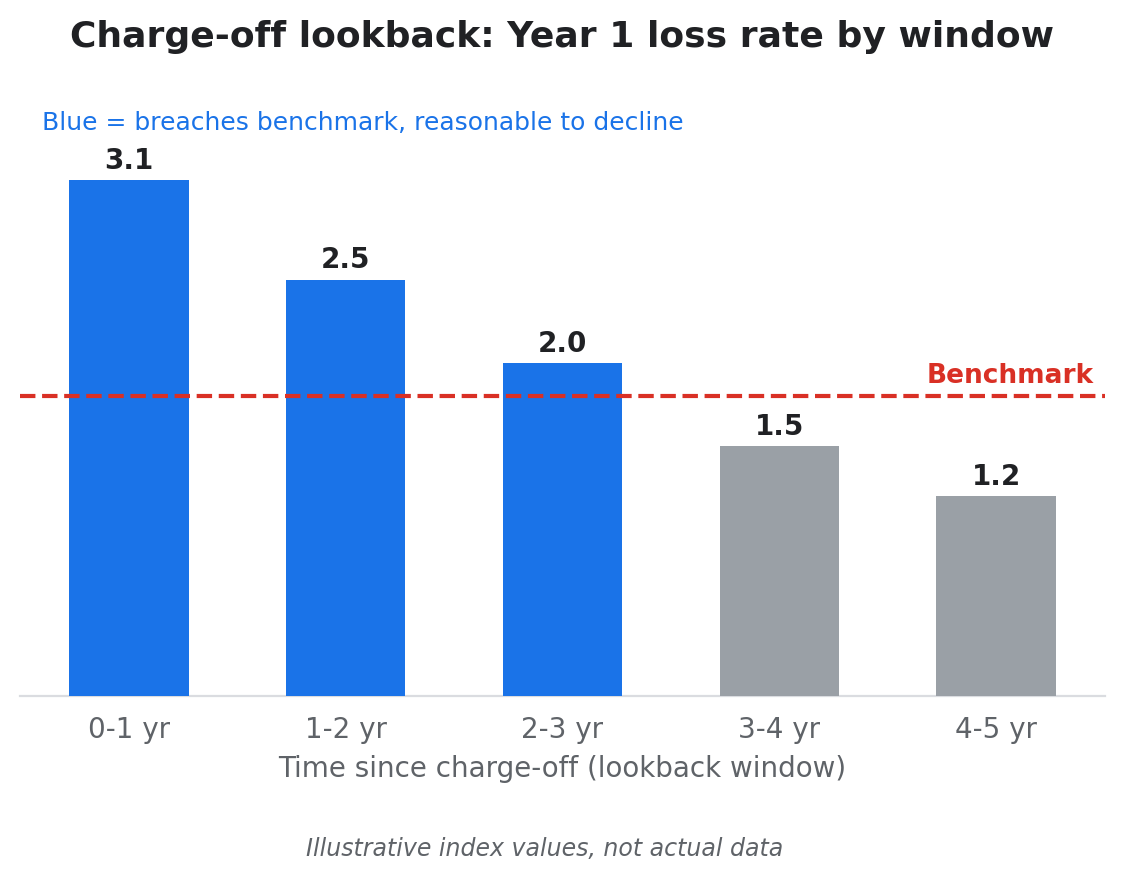
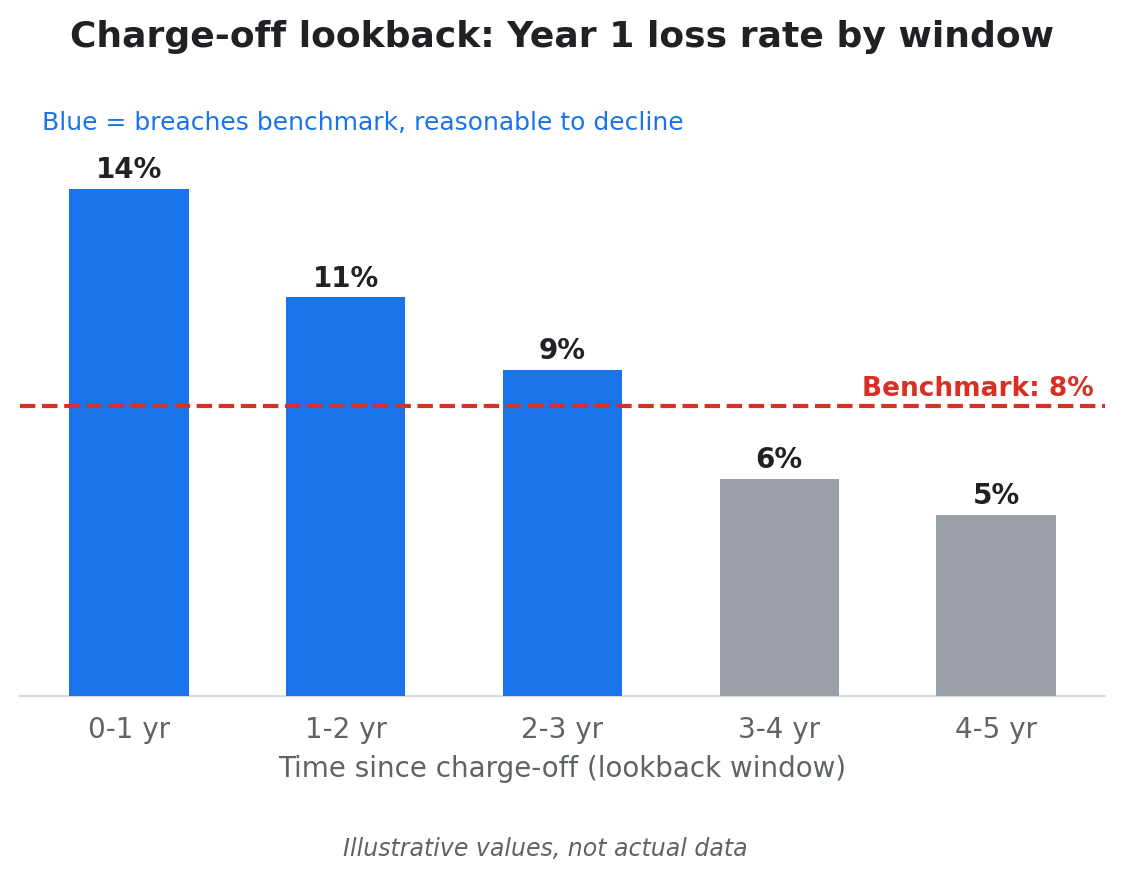
Add files via upload

diff --git a/index.html b/index.html
@@ -3,7 +3,7 @@
 <head>
 <meta charset="utf-8">
 <meta name="viewport" content="width=device-width, initial-scale=1, viewport-fit=cover">
-<title>Deepali Sutar | Professional portfolio</title>
+<title>Deepali Gopal Sutar | Professional portfolio</title>
 <meta name="description" content="Case studies from 7 years of data and analytics work at Citi and ZS Associates.">
 <link rel="preconnect" href="https://fonts.googleapis.com">
 <link href="https://fonts.googleapis.com/css2?family=Source+Serif+4:opsz,wght@8..60,500;8..60,700&family=IBM+Plex+Sans:wght@400;500;600&display=swap" rel="stylesheet">
@@ -20,7 +20,7 @@ body{margin:0;background:var(--bg);color:var(--ink);font:400 17px/1.65 var(--san
 a{color:var(--accent)}
 a:focus-visible,summary:focus-visible{outline:3px solid var(--accent);outline-offset:3px;border-radius:3px}
 header{padding:64px 0 36px;border-bottom:1px solid var(--line)}
-h1{font:700 clamp(2.4rem,8vw,3.6rem)/1.05 var(--serif);letter-spacing:-.02em;margin:0 0 18px}
+h1{font:700 clamp(2rem,7vw,3rem)/1.05 var(--serif);letter-spacing:-.02em;margin:0 0 18px}
 .lede{font:500 clamp(1.15rem,3.4vw,1.4rem)/1.5 var(--serif);color:var(--ink);margin:0 0 14px;max-width:36rem}
 .small{color:var(--sub);font-size:.92rem;margin:0 0 6px}
 nav ul{list-style:none;margin:26px 0 0;padding:0;display:grid;gap:2px}
@@ -49,10 +49,10 @@ footer p{margin:0 0 10px}
 <body>
 <div class="wrap">
 <header>
-<h1>Deepali Sutar</h1>
-<p class="lede">Data and analytics professional. Seven years of work at Citi and ZS Associates: risk policy, automation, resource allocation and forecasting.</p>
-<p class="small">Client and employer details are anonymized. Charts marked illustrative show the shape of the work, not actual data.</p>
-<p class="small">Looking for product analytics projects? See <a href="https://deepali-sutar.github.io/">deepali-sutar.github.io</a>.</p>
+<h1>Hi, I'm Deepali Gopal Sutar 👋</h1>
+<p class="lede">Data and analytics professional with 7 years of experience across financial services (Citi) and pharma consulting (ZS Associates). This page covers real work I've delivered: risk policy design, process automation, commercial resource allocation, and forecasting with client-facing team leadership.</p>
+<p class="small">Looking for my product analytics learning projects instead? See <a href="https://deepali-sutar.github.io/">deepali-sutar.github.io</a>.</p>
+<p class="small">Note: client and employer details are anonymized, and charts marked "illustrative" show the shape of the work, not actual data.</p>
 <nav aria-label="Case studies"><ul>
 <li><a href="#risk-policy">Standardizing risk policy across card portfolios<span>Citi: policy simulation and benchmarking</span></a></li>
 <li><a href="#launch">Allocating sales resources for a drug launch<span>ZS Associates: call planning and PDE</span></a></li>
